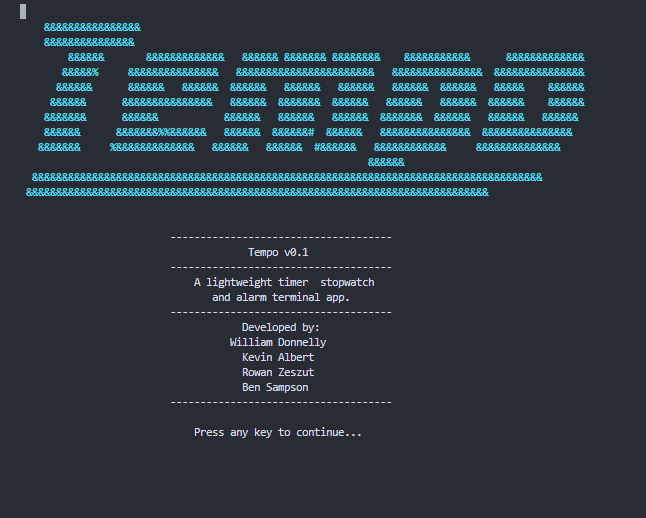
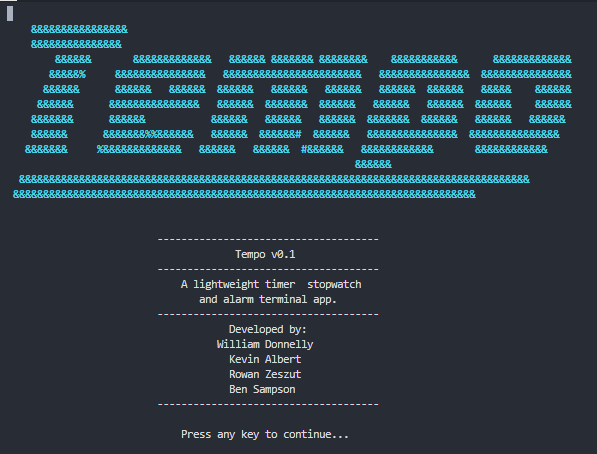
new startup 2

Changed region(s): [[0.0, 0.0, 0.9648, 0.8943], [0.3015, 0.9251, 0.5729, 0.9868]]

diff --git a/include/Menu.hpp b/include/Menu.hpp
@@ -117,20 +117,20 @@ private:
     };
 
     vector<string> _logoArt = {
-        "                                                                                                             ", 
-        "    &&&&&&&&&&&&&&&&                                                                                         ", 
-        "    &&&&&&&&&&&&&&&                                                                                          ", 
-        "        &&&&&&       &&&&&&&&&&&&&   &&&&&& &&&&&&& &&&&&&&&    &&&&&&&&&&&      &&&&&&&&&&&&&              ", 
-        "       &&&&&%     &&&&&&&&&&&&&&&   &&&&&&&&&&&&&&&&&&&&&&&   &&&&&&&&&&&&&&&  &&&&&&&&&&&&&&&               ", 
-        "      &&&&&&      &&&&&&   &&&&&&  &&&&&&   &&&&&&   &&&&&&   &&&&&&  &&&&&&   &&&&&    &&&&&&               ",
-        "     &&&&&&      &&&&&&&&&&&&&&&   &&&&&&  &&&&&&&  &&&&&&   &&&&&&   &&&&&&  &&&&&&    &&&&&&                ", 
-        "    &&&&&&&      &&&&&&           &&&&&&   &&&&&&   &&&&&&  &&&&&&&  &&&&&&   &&&&&&   &&&&&&                ", 
-        "    &&&&&&      &&&&&&&\%\%&&&&&&   &&&&&&  &&&&&&#  &&&&&&   &&&&&&&&&&&&&&&  &&&&&&&&&&&&&&&                 ",
-        "   &&&&&&&     %&&&&&&&&&&&&&   &&&&&&   &&&&&&  #&&&&&&   &&&&&&&&&&&&     &&&&&&&&&&&&&&                  ",
-        "                                                          &&&&&&                                             ",
-        "  &&&&&&&&&&&&&&&&&&&&&&&&&&&&&&&&&&&&&&&&&&&&&&&&&&&&&&&&&&&&&&&&&&&&&&&&&&&&&&&&&&&&&                      ",
-        " &&&&&&&&&&&&&&&&&&&&&&&&&&&&&&&&&&&&&&&&&&&&&&&&&&&&&&&&&&&&&&&&&&&&&&&&&&&&&                               ",
-        "                                                                                                             "
+        "                                                                                                ", 
+        "    &&&&&&&&&&&&&&&&                                                                            ", 
+        "    &&&&&&&&&&&&&&&                                                                             ", 
+        "        &&&&&&       &&&&&&&&&&&&&   &&&&&& &&&&&&& &&&&&&&&    &&&&&&&&&&&      &&&&&&&&&&&&& ", 
+        "       &&&&&%     &&&&&&&&&&&&&&&   &&&&&&&&&&&&&&&&&&&&&&&   &&&&&&&&&&&&&&&  &&&&&&&&&&&&&&&  ", 
+        "      &&&&&&      &&&&&&   &&&&&&  &&&&&&   &&&&&&   &&&&&&   &&&&&&  &&&&&&   &&&&&    &&&&&&  ",
+        "     &&&&&&      &&&&&&&&&&&&&&&   &&&&&&  &&&&&&&  &&&&&&   &&&&&&   &&&&&&  &&&&&&    &&&&&&   ", 
+        "    &&&&&&&      &&&&&&           &&&&&&   &&&&&&   &&&&&&  &&&&&&&  &&&&&&   &&&&&&   &&&&&&   ", 
+        "    &&&&&&      &&&&&&&\%\%&&&&&&   &&&&&&  &&&&&&#  &&&&&&   &&&&&&&&&&&&&&&  &&&&&&&&&&&&&&&    ",
+        "   &&&&&&&     %&&&&&&&&&&&&&   &&&&&&   &&&&&&  #&&&&&&   &&&&&&&&&&&&       &&&&&&&&&&&&     ",
+        "                                                          &&&&&&                                ",
+        "  &&&&&&&&&&&&&&&&&&&&&&&&&&&&&&&&&&&&&&&&&&&&&&&&&&&&&&&&&&&&&&&&&&&&&&&&&&&&&&&&&&&&&         ",
+        " &&&&&&&&&&&&&&&&&&&&&&&&&&&&&&&&&&&&&&&&&&&&&&&&&&&&&&&&&&&&&&&&&&&&&&&&&&&&&                  ",
+        "                                                                                                "
     };
 
 
